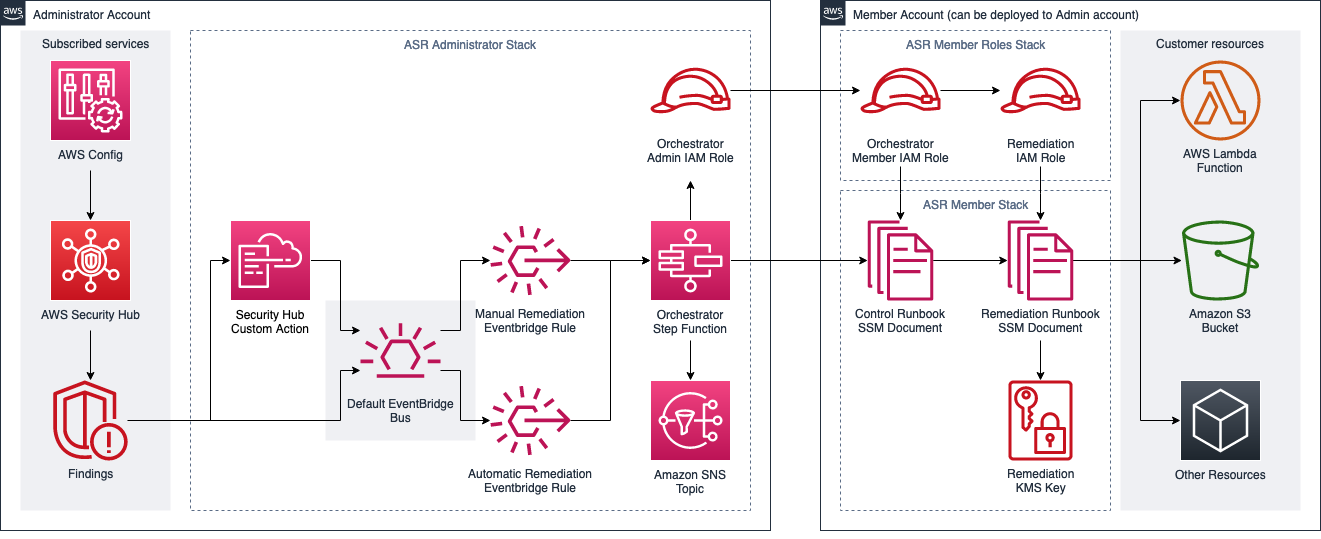
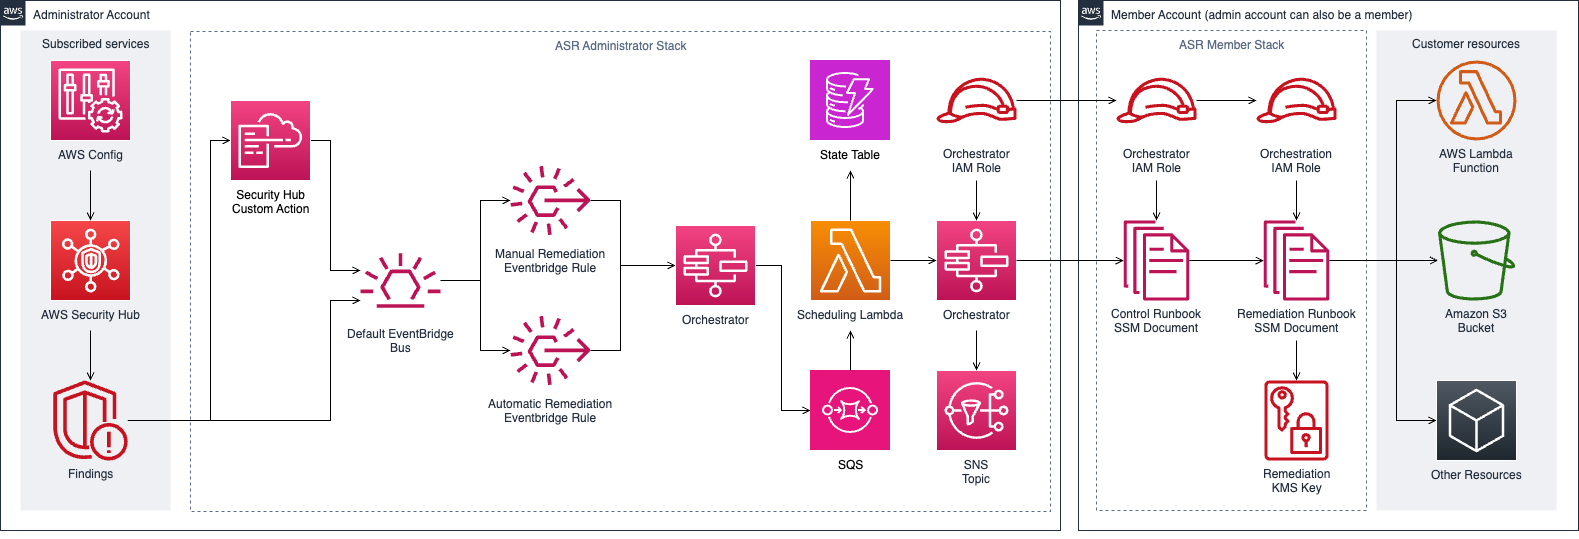
Updated to version v2.1.1

diff --git a/source/lib/member-stack.ts b/source/lib/member-stack.ts
@@ -1,7 +1,7 @@
 // Copyright Amazon.com, Inc. or its affiliates. All Rights Reserved.
 // SPDX-License-Identifier: Apache-2.0
 import { readdirSync } from 'fs';
-import { StackProps, Stack, App, CfnParameter, CfnCondition, Fn, CfnResource } from 'aws-cdk-lib';
+import { StackProps, Stack, App, CfnResource } from 'aws-cdk-lib';
 import { Runtime } from 'aws-cdk-lib/aws-lambda';
 import AdminAccountParam from './admin-account-param';
 import { RedshiftAuditLogging } from './member/redshift-audit-logging';
@@ -11,6 +11,7 @@ import { MemberBucketEncryption } from './member/bucket-encryption';
 import { MemberVersion } from './member/version';
 import { SerializedNestedStackFactory } from './cdk-helper/nested-stack';
 import { WaitProvider } from './wait-provider';
+import { MemberPlaybook } from './member-playbook';
 
 export interface SolutionProps extends StackProps {
   solutionId: string;
@@ -27,7 +28,7 @@ export class MemberStack extends Stack {
 
     const adminAccountParam = new AdminAccountParam(this, 'AdminAccountParameter');
 
-    new RedshiftAuditLogging(this, 'RedshiftAuditLogging', { solutionId: props.solutionId });
+    const redShiftLogging = new RedshiftAuditLogging(this, 'RedshiftAuditLogging', { solutionId: props.solutionId });
 
     new MemberRemediationKey(this, 'MemberKey', { solutionId: props.solutionId });
 
@@ -60,39 +61,39 @@ export class MemberStack extends Stack {
     this.nestedStacks.push(nestedStackNoRoles as Stack);
 
     const playbookDirectory = `${__dirname}/../playbooks`;
-    const ignore = ['.DS_Store', 'common', '.pytest_cache', 'NEWPLAYBOOK', '.coverage'];
-    const illegalChars = /[\\._]/g;
+    const ignore = ['.DS_Store', 'common', '.pytest_cache', 'NEWPLAYBOOK', '.coverage', 'SC'];
     const listOfPlaybooks: string[] = [];
     const items = readdirSync(playbookDirectory);
     items.forEach((file) => {
       if (!ignore.includes(file)) {
-        const templateFile = `${file}MemberStack.template`;
-
-        const parmname = file.replace(illegalChars, '');
-        const memberStackOption = new CfnParameter(this, `LoadMemberStack${parmname}`, {
-          type: 'String',
-          description: `Load Playbook member stack for ${file}?`,
-          default: 'yes',
-          allowedValues: ['yes', 'no'],
-        });
-        memberStackOption.overrideLogicalId(`Load${parmname}MemberStack`);
-        listOfPlaybooks.push(memberStackOption.logicalId);
-
-        const nestedStack = nestedStackFactory.addNestedStack(`PlaybookMemberStack${file}`, {
-          templateRelativePath: `playbooks/${templateFile}`,
+        const playbook = new MemberPlaybook(this, {
+          name: file,
+          defaultState: 'no',
+          nestedStackFactory,
           parameters: {
             SecHubAdminAccount: adminAccountParam.value,
             WaitProviderServiceToken: waitProvider.serviceToken,
           },
-          condition: new CfnCondition(this, `load${file}Cond`, {
-            expression: Fn.conditionEquals(memberStackOption, 'yes'),
-          }),
         });
-        const cfnResource = nestedStack.nestedStackResource as CfnResource;
-        cfnResource.overrideLogicalId(`PlaybookMemberStack${file}`);
-        this.nestedStacks.push(nestedStack as Stack);
+
+        listOfPlaybooks.push(playbook.parameterName);
+        this.nestedStacks.push(playbook.playbookStack);
       }
     });
+
+    const scPlaybook = new MemberPlaybook(this, {
+      name: 'SC',
+      defaultState: 'yes',
+      description:
+        'If the consolidated control findings feature is turned on in Security Hub, only enable the Security Control (SC) playbook. If the feature is not turned on, enable the playbooks for the security standards that are enabled in Security Hub. Enabling additional playbooks can result in reaching the quota for EventBridge Rules.',
+      nestedStackFactory,
+      parameters: {
+        SecHubAdminAccount: adminAccountParam.value,
+        WaitProviderServiceToken: waitProvider.serviceToken,
+      },
+    });
+
+    this.nestedStacks.push(scPlaybook.playbookStack);
 
     /********************
      ** Metadata
@@ -105,8 +106,16 @@ export class MemberStack extends Stack {
             Parameters: [memberLogGroup.paramId],
           },
           {
-            Label: { default: 'Playbooks' },
+            Label: { default: 'Consolidated control finding Playbook' },
+            Parameters: [scPlaybook.parameterName],
+          },
+          {
+            Label: { default: 'Security Standard Playbooks' },
             Parameters: listOfPlaybooks,
+          },
+          {
+            Label: { default: 'Configuration' },
+            Parameters: [redShiftLogging.paramId, adminAccountParam.paramId],
           },
         ],
         ParameterLabels: {

diff --git a/source/lib/solution_deploy-stack.ts b/source/lib/solution_deploy-stack.ts
@@ -25,6 +25,7 @@ import { OrchestratorConstruct } from './common-orchestrator-construct';
 import { CfnStateMachine, StateMachine } from 'aws-cdk-lib/aws-stepfunctions';
 import { OneTrigger } from './ssmplaybook';
 import { CloudWatchMetrics } from './cloudwatch_metrics';
+import { AdminPlaybook } from './admin-playbook';
 
 export interface SHARRStackProps extends cdk.StackProps {
   solutionId: string;
@@ -736,48 +737,39 @@ export class SolutionDeployStack extends cdk.Stack {
     // Loop through all of the Playbooks and create an option to load each
     //
     const PB_DIR = `${__dirname}/../playbooks`;
-    const ignore = ['.DS_Store', 'common', 'python_lib', 'python_tests', '.pytest_cache', 'NEWPLAYBOOK', '.coverage'];
-    const illegalChars = /[\\._]/g;
+    const ignore = [
+      '.DS_Store',
+      'common',
+      'python_lib',
+      'python_tests',
+      '.pytest_cache',
+      'NEWPLAYBOOK',
+      '.coverage',
+      'SC',
+    ];
 
     const standardLogicalNames: string[] = [];
     const items = fs.readdirSync(PB_DIR);
     items.forEach((file) => {
       if (!ignore.includes(file)) {
-        const template_file = `${file}Stack.template`;
-
-        //---------------------------------------------------------------------
-        // Playbook Admin Template Nested Stack
-        //
-        const parmname = file.replace(illegalChars, '');
-        const adminStackOption = new cdk.CfnParameter(this, `LoadAdminStack${parmname}`, {
-          type: 'String',
-          description: `Load CloudWatch Event Rules for ${file}?`,
-          default: 'yes',
-          allowedValues: ['yes', 'no'],
+        const playbook = new AdminPlaybook(this, {
+          name: file,
+          stackDependencies: [stateMachineConstruct, orchestratorArn],
+          defaultState: 'no',
         });
-        adminStackOption.overrideLogicalId(`Load${parmname}AdminStack`);
-        standardLogicalNames.push(`Load${parmname}AdminStack`);
-
-        const adminStack = new cdk.NestedStack(this, `PlaybookAdminStack${file}`);
-        const cfnStack = adminStack.nestedStackResource as cdk.CfnResource;
-        cfnStack.addPropertyOverride(
-          'TemplateURL',
-          'https://' +
-            cdk.Fn.findInMap('SourceCode', 'General', 'S3Bucket') +
-            '-reference.s3.amazonaws.com/' +
-            cdk.Fn.findInMap('SourceCode', 'General', 'KeyPrefix') +
-            '/playbooks/' +
-            template_file,
-        );
-        cfnStack.cfnOptions.condition = new cdk.CfnCondition(this, `load${file}Cond`, {
-          expression: cdk.Fn.conditionEquals(adminStackOption, 'yes'),
-        });
-        cfnStack.node.addDependency(stateMachineConstruct);
-        cfnStack.node.addDependency(orchestratorArn);
-        cfnStack.overrideLogicalId(`PlaybookAdminStack${file}`);
-        this.nestedStacks.push(adminStack as cdk.Stack);
+        standardLogicalNames.push(playbook.parameterName);
+        this.nestedStacks.push(playbook.playbookStack);
       }
     });
+
+    const scPlaybook = new AdminPlaybook(this, {
+      name: 'SC',
+      stackDependencies: [stateMachineConstruct, orchestratorArn],
+      defaultState: 'yes',
+      description:
+        'If the consolidated control findings feature is turned on in Security Hub, only enable the Security Control (SC) playbook. If the feature is not turned on, enable the playbooks for the security standards that are enabled in Security Hub. Enabling additional playbooks can result in reaching the quota for EventBridge Rules.',
+    });
+    this.nestedStacks.push(scPlaybook.playbookStack);
 
     //---------------------------------------------------------------------
     // Scheduling Table for SQS Remediation Throttling
@@ -916,6 +908,10 @@ export class SolutionDeployStack extends cdk.Stack {
     stack.templateOptions.metadata = {
       'AWS::CloudFormation::Interface': {
         ParameterGroups: [
+          {
+            Label: { default: 'Consolidated Control Findings Playbook' },
+            Parameters: [scPlaybook.parameterName],
+          },
           {
             Label: { default: 'Security Standard Playbooks' },
             Parameters: standardLogicalNames,

diff --git a/source/lib/admin-playbook.ts b/source/lib/admin-playbook.ts
@@ -1,0 +1,55 @@
+// Copyright Amazon.com, Inc. or its affiliates. All Rights Reserved.
+// SPDX-License-Identifier: Apache-2.0
+
+import { CfnCondition, CfnParameter, CfnResource, Fn, NestedStack, Stack } from 'aws-cdk-lib';
+import { Construct } from 'constructs';
+
+export interface AdminPlaybookProps {
+  name: string;
+  stackDependencies?: CfnResource[];
+  defaultState?: 'yes' | 'no';
+  description?: string;
+}
+
+export class AdminPlaybook {
+  parameterName = '';
+  playbookStack: Stack;
+
+  constructor(scope: Construct, props: AdminPlaybookProps) {
+    const templateFile = `${props.name}Stack.template`;
+    const illegalChars = /[\\._]/g;
+    const playbookName = props.name.replace(illegalChars, '');
+    this.parameterName = `Load${playbookName}AdminStack`;
+
+    //---------------------------------------------------------------------
+    // Playbook Template Nested Stack
+    //
+    const stackOption = new CfnParameter(scope, `LoadAdminStack${playbookName}`, {
+      type: 'String',
+      description:
+        props.description ?? `Install the admin components for automated remediation of ${props.name} controls?`,
+      default: props.defaultState ?? 'no',
+      allowedValues: ['yes', 'no'],
+    });
+    stackOption.overrideLogicalId(this.parameterName);
+
+    this.playbookStack = new NestedStack(scope, `PlaybookAdminStack${playbookName}`);
+    const cfnStack = this.playbookStack.nestedStackResource as CfnResource;
+    cfnStack.addPropertyOverride(
+      'TemplateURL',
+      'https://' +
+        Fn.findInMap('SourceCode', 'General', 'S3Bucket') +
+        '-reference.s3.amazonaws.com/' +
+        Fn.findInMap('SourceCode', 'General', 'KeyPrefix') +
+        '/playbooks/' +
+        templateFile,
+    );
+    cfnStack.cfnOptions.condition = new CfnCondition(scope, `load${playbookName}Cond`, {
+      expression: Fn.conditionEquals(stackOption, 'yes'),
+    });
+    props.stackDependencies?.forEach((dependency) => {
+      cfnStack.node.addDependency(dependency);
+    });
+    cfnStack.overrideLogicalId(`PlaybookAdminStack${props.name}`);
+  }
+}

diff --git a/source/lib/member-playbook.ts b/source/lib/member-playbook.ts
@@ -1,0 +1,50 @@
+// Copyright Amazon.com, Inc. or its affiliates. All Rights Reserved.
+// SPDX-License-Identifier: Apache-2.0
+
+import { CfnCondition, CfnParameter, CfnResource, Fn, Stack } from 'aws-cdk-lib';
+import { Construct } from 'constructs';
+import { SerializedNestedStackFactory } from './cdk-helper/nested-stack';
+
+export interface MemberPlaybookProps {
+  readonly name: string;
+  readonly nestedStackFactory: SerializedNestedStackFactory;
+  readonly parameters?: { [_: string]: string };
+  readonly stackDependencies?: CfnResource[];
+  readonly defaultState?: 'yes' | 'no';
+  readonly description?: string;
+}
+
+export class MemberPlaybook {
+  parameterName = '';
+  playbookStack: Stack;
+
+  constructor(scope: Construct, props: MemberPlaybookProps) {
+    const templateFile = `${props.name}MemberStack.template`;
+    const illegalChars = /[\\._]/g;
+    const playbookName = props.name.replace(illegalChars, '');
+    this.parameterName = `Load${playbookName}MemberStack`;
+
+    //---------------------------------------------------------------------
+    // Playbook Template Nested Stack
+    //
+    const stackOption = new CfnParameter(scope, `LoadMemberStack${playbookName}`, {
+      type: 'String',
+      description:
+        props.description ?? `Install the member components for automated remediation of ${props.name} controls?`,
+      default: props.defaultState ?? 'no',
+      allowedValues: ['yes', 'no'],
+    });
+    stackOption.overrideLogicalId(this.parameterName);
+
+    this.playbookStack = props.nestedStackFactory.addNestedStack(`PlaybookMemberStack${playbookName}`, {
+      templateRelativePath: `playbooks/${templateFile}`,
+      parameters: props.parameters,
+      condition: new CfnCondition(scope, `load${playbookName}Cond`, {
+        expression: Fn.conditionEquals(stackOption, 'yes'),
+      }),
+    });
+
+    const cfnStack = this.playbookStack.nestedStackResource as CfnResource;
+    cfnStack.overrideLogicalId(`PlaybookMemberStack${props.name}`);
+  }
+}

diff --git a/source/lib/member/redshift-audit-logging.ts b/source/lib/member/redshift-audit-logging.ts
@@ -15,6 +15,8 @@ export interface RedshiftAuditLoggingProps {
 }
 
 export class RedshiftAuditLogging extends Construct {
+  public readonly paramId: string;
+
   constructor(scope: Construct, id: string, props: RedshiftAuditLoggingProps) {
     super(scope, id);
 
@@ -25,6 +27,7 @@ export class RedshiftAuditLogging extends Construct {
       allowedValues: [ChoiceParam.Yes, ChoiceParam.No],
       description: 'Create S3 Bucket For Redshift Cluster Audit Logging.',
     });
+    this.paramId = templateParam.logicalId;
 
     const condition = new CfnCondition(scope, 'EnableS3BucketForRedShift4', {
       expression: Fn.conditionEquals(templateParam.valueAsString, ChoiceParam.Yes),

diff --git a/source/lib/admin-account-param.ts b/source/lib/admin-account-param.ts
@@ -4,6 +4,7 @@ import { CfnParameter } from 'aws-cdk-lib';
 import { Construct } from 'constructs';
 
 export default class AdminAccountParam extends Construct {
+  public readonly paramId: string;
   public readonly value: string;
 
   constructor(scope: Construct, id: string) {
@@ -16,6 +17,7 @@ export default class AdminAccountParam extends Construct {
       allowedPattern: accountIdRegex.source,
     });
     param.overrideLogicalId(`SecHubAdminAccount`);
+    this.paramId = param.logicalId;
 
     this.value = param.valueAsString;
   }

diff --git a/source/lib/member-stack.test.ts b/source/lib/member-stack.test.ts
@@ -348,7 +348,6 @@ describe('member stack', function () {
 
     const expectedTemplateParameterProperties = {
       AllowedValues: ['yes', 'no'],
-      Default: 'yes',
       Type: 'String',
     };
 

diff --git a/CHANGELOG.md b/CHANGELOG.md
@@ -5,6 +5,15 @@ All notable changes to this project will be documented in this file.
 The format is based on [Keep a Changelog](https://keepachangelog.com/en/1.0.0/),
 and this project adheres to [Semantic Versioning](https://semver.org/spec/v2.0.0.html).
 
+## [2.1.1] - 2024-04-10
+
+### Changed
+
+- Changed order of CloudFormation parameters to emphasize the Security Control playbook
+- Changed default for all playbooks other than SC to 'no'
+- Updated descriptions of playbook parameters
+- Updated architecture diagram
+
 ## [2.1.0] - 2024-03-28
 
 ### Added
